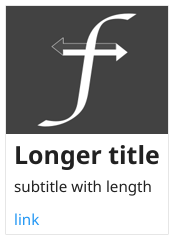
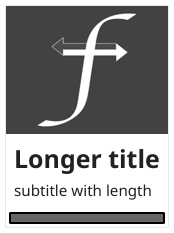
Fix the content minsize for Card
There were a number of small issues here.
Also reduce calls to child MinSize().
Update tests to use rectangles with border so we can see for sure

Changed region(s): [[0.0287, 0.1502, 0.977, 0.8712], [0.0287, 0.8712, 0.9483, 0.9614], [0.0287, 0.0, 0.9483, 0.3305]]

diff --git a/widget/card.go b/widget/card.go
@@ -110,33 +110,41 @@ func (c *cardRenderer) Layout(size fyne.Size) {
 		pos.Y += cardMediaHeight
 	}
 
-	titlePad := theme.Padding() * 2
 	contentPad := theme.Padding()
-	size.Width -= titlePad * 2
-	pos.X += titlePad
-	pos.Y += theme.Padding()
+	if c.card.Title != "" || c.card.Subtitle != "" {
+		titlePad := theme.Padding() * 2
+		size.Width -= titlePad * 2
+		pos.X += titlePad
+		pos.Y += titlePad
 
-	if c.card.Title != "" {
-		height := c.header.MinSize().Height
-		c.header.Move(pos)
-		c.header.Resize(fyne.NewSize(size.Width, height))
-		pos.Y += height + theme.Padding()
+		if c.card.Title != "" {
+			height := c.header.MinSize().Height
+			c.header.Move(pos)
+			c.header.Resize(fyne.NewSize(size.Width, height))
+			pos.Y += height + theme.Padding()
+		}
+
+		if c.card.Subtitle != "" {
+			height := c.subHeader.MinSize().Height
+			c.subHeader.Move(pos)
+			c.subHeader.Resize(fyne.NewSize(size.Width, height))
+			pos.Y += height + theme.Padding()
+		}
+
+		size.Width = size.Width + titlePad*2
+		pos.X = pos.X - titlePad
+		pos.Y += titlePad
 	}
 
-	if c.card.Subtitle != "" {
-		height := c.subHeader.MinSize().Height
-		c.subHeader.Move(pos)
-		c.subHeader.Resize(fyne.NewSize(size.Width, height))
-		pos.Y += height + theme.Padding()
-	}
-
-	size.Width += titlePad
-	pos.X -= contentPad
-	pos.Y += contentPad
-
+	size.Width -= contentPad*2
+	pos.X += contentPad
 	if c.card.Content != nil {
-		height := size.Height - pos.Y - titlePad - contentPad
-		c.card.Content.Move(pos)
+		height := size.Height - contentPad*2 - (pos.Y - theme.Padding()/2) // adjust for content and initial offset
+		if c.card.Title != "" || c.card.Subtitle != "" {
+			height += contentPad
+			pos.Y -= contentPad
+		}
+		c.card.Content.Move(pos.Add(fyne.NewPos(0, contentPad)))
 		c.card.Content.Resize(fyne.NewSize(size.Width, height))
 	}
 }
@@ -149,37 +157,41 @@ func (c *cardRenderer) MinSize() fyne.Size {
 	hasImage := c.card.Image != nil
 	hasContent := c.card.Content != nil
 
-	if !hasHeader && !hasSubHeader && !hasContent {
+	if !hasHeader && !hasSubHeader && !hasContent { // just image, or nothing
 		if c.card.Image == nil {
 			return fyne.NewSize(theme.Padding(), theme.Padding()) // empty, just space for border
 		}
 		return fyne.NewSize(c.card.Image.MinSize().Width+theme.Padding(), cardMediaHeight+theme.Padding())
 	}
 
-	titlePad := theme.Padding() * 2
 	contentPad := theme.Padding()
-	min := fyne.NewSize(titlePad*2+theme.Padding(), titlePad*2+theme.Padding())
+	min := fyne.NewSize(theme.Padding(), theme.Padding())
 	if hasImage {
 		min = fyne.NewSize(min.Width, min.Height+cardMediaHeight)
 	}
 
-	if hasHeader {
-		min = fyne.NewSize(fyne.Max(min.Width, c.header.MinSize().Width+titlePad*2+theme.Padding()),
-			min.Height+c.header.MinSize().Height)
-		if !hasSubHeader && !hasContent {
-			min.Height -= titlePad
+	if hasHeader || hasSubHeader {
+		titlePad := theme.Padding() * 2
+		min = min.Add(fyne.NewSize(0, titlePad*2))
+		if hasHeader {
+			headerMin := c.header.MinSize()
+			min = fyne.NewSize(fyne.Max(min.Width, headerMin.Width+titlePad*2+theme.Padding()),
+				min.Height+headerMin.Height)
+			if hasSubHeader {
+				min.Height += theme.Padding()
+			}
+		}
+		if hasSubHeader {
+			subHeaderMin := c.subHeader.MinSize()
+			min = fyne.NewSize(fyne.Max(min.Width, subHeaderMin.Width+titlePad*2+theme.Padding()),
+				min.Height+subHeaderMin.Height)
 		}
 	}
-	if hasSubHeader {
-		min = fyne.NewSize(fyne.Max(min.Width, c.subHeader.MinSize().Width+titlePad*2+theme.Padding()),
-			min.Height+c.subHeader.MinSize().Height)
-		if !hasHeader && !hasContent {
-			min.Height -= titlePad
-		}
-	}
+
 	if hasContent {
-		min = fyne.NewSize(fyne.Max(min.Width, c.card.Content.MinSize().Width+contentPad*2+theme.Padding()),
-			min.Height+c.card.Content.MinSize().Height)
+		contentMin := c.card.Content.MinSize()
+		min = fyne.NewSize(fyne.Max(min.Width, contentMin.Width+contentPad*2+theme.Padding()),
+			min.Height+contentMin.Height+contentPad*2)
 	}
 
 	return min

diff --git a/widget/card_test.go b/widget/card_test.go
@@ -1,14 +1,16 @@
 package widget_test
 
 import (
+	"image/color"
 	"testing"
+
+	"github.com/stretchr/testify/assert"
 
 	"fyne.io/fyne"
 	"fyne.io/fyne/canvas"
 	"fyne.io/fyne/test"
 	"fyne.io/fyne/theme"
 	"fyne.io/fyne/widget"
-	"github.com/stretchr/testify/assert"
 )
 
 func TestCard_SetImage(t *testing.T) {
@@ -74,25 +76,25 @@ func TestCard_Layout(t *testing.T) {
 			title:    "",
 			subtitle: "",
 			icon:     nil,
-			content:  widget.NewHyperlink("link", nil),
+			content:  newContentRect(),
 		},
 		"title_content": {
 			title:    "Hello",
 			subtitle: "",
 			icon:     nil,
-			content:  widget.NewHyperlink("link", nil),
+			content:  newContentRect(),
 		},
 		"image_content": {
 			title:    "",
 			subtitle: "",
 			icon:     canvas.NewImageFromResource(theme.FyneLogo()),
-			content:  widget.NewHyperlink("link", nil),
+			content:  newContentRect(),
 		},
 		"all_items": {
 			title:    "Longer title",
 			subtitle: "subtitle with length",
 			icon:     canvas.NewImageFromResource(theme.FyneLogo()),
-			content:  widget.NewHyperlink("link", nil),
+			content:  newContentRect(),
 		},
 	} {
 		t.Run(name, func(t *testing.T) {
@@ -106,10 +108,29 @@ func TestCard_Layout(t *testing.T) {
 			window := test.NewWindow(card)
 			size := card.MinSize().Max(fyne.NewSize(80, 0)) // give a little width for image only tests
 			window.Resize(size.Add(fyne.NewSize(theme.Padding()*2, theme.Padding()*2)))
-
+			if tt.content != nil {
+				assert.Equal(t, 10, tt.content.Size().Height)
+			}
 			test.AssertImageMatches(t, "card/layout_"+name+".png", window.Canvas().Capture())
 
 			window.Close()
 		})
 	}
+}
+
+func TestCard_MinSize(t *testing.T) {
+	content := widget.NewLabel("simple")
+	card := &widget.Card{Content: content}
+
+	inner := card.MinSize().Subtract(fyne.NewSize(theme.Padding()*3, theme.Padding()*3)) // shadow + content pad
+	assert.Equal(t, content.MinSize(), inner)
+}
+
+func newContentRect() *canvas.Rectangle {
+	rect := canvas.NewRectangle(color.Gray{0x66})
+	rect.StrokeColor = color.Black
+	rect.StrokeWidth = 2
+	rect.SetMinSize(fyne.NewSize(10, 10))
+
+	return rect
 }
